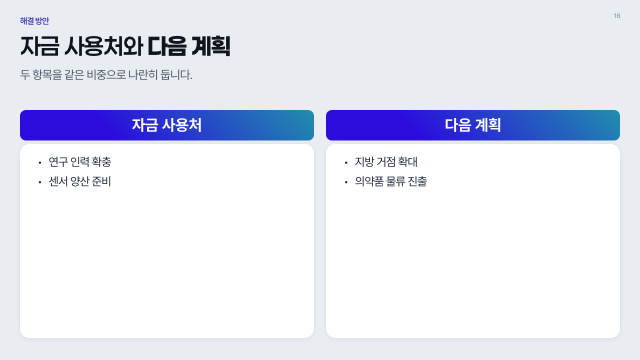
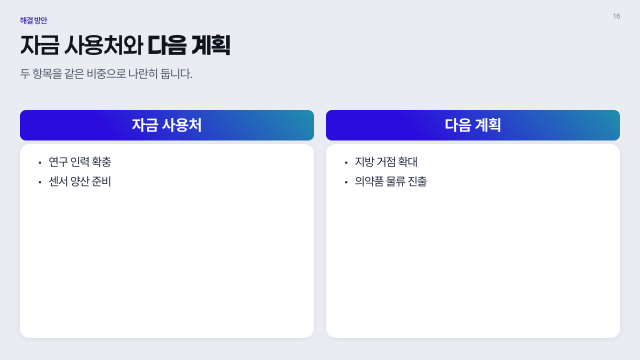
글자 크기를 7단계 토큰으로 묶음: 라벨 14·캡션 12 추가, 파생 배율(×0.85~1.15) 전부 제거
- density 에 label·caption 추가(디자인 페이지에서 편집), 아이브로우 16(작은 글), 장 번호 14(라벨), 출처 14(라벨)
- 그래프·간트·연혁·조직도·배너·배지·강조 박스가 토큰만 쓰도록(HTML·PPTX)

Changed region(s): [[0.0312, 0.0306, 0.375, 0.1528], [0.0312, 0.1833, 0.3125, 0.2444]]

diff --git a/docs/templates/deck.html b/docs/templates/deck.html
@@ -28,7 +28,7 @@ deck-stage:not(:defined){visibility:hidden;}
   --fs-body:calc(18px * var(--k));--fs-small:calc(16px * var(--k));
   --fs-card:calc(24px * var(--k));--fs-stat:calc(34px * var(--k));
   --fs-table:calc(22px * var(--k));--fs-tableh:calc(22px * var(--k));
-  --fs-caption:calc(var(--fs-small) - 4px);   /* 캡션·단위: 작은 글보다 4px 작게, 색은 --text-light (2026-10-11 고정) */
+  --fs-label:calc(14px * var(--k));--fs-caption:calc(12px * var(--k));   /* 라벨 14 · 캡션 12 (2026-10-11 글자 크기 7단계로 묶음) */
   --gap:calc(12px * var(--k));
 }
 *,*::before,*::after{box-sizing:border-box;margin:0;padding:0;}
@@ -38,9 +38,9 @@ body{font-family:var(--font);-webkit-font-smoothing:antialiased;color:var(--text
 .slide{width:1280px;height:720px;overflow:hidden;background:var(--page);position:relative;font-size:var(--fs-body);line-height:1.5;letter-spacing:-.8pt;word-break:keep-all;font-family:var(--font);color:var(--text);}   /* deck-stage 가 슬롯에 흰 글자·시스템 글꼴을 깔아서, 색·글꼴을 명시하지 않은 글자가 사라지지 않게 */
 /* top: eyebrow + page no · headline · rule · meta line (minimal, no header strip) */
 .top{position:absolute;top:30px;left:var(--pad);right:var(--pad);z-index:4;}
-.eyebrow{font-size:17px;color:var(--primary-deep);font-weight:500;display:flex;justify-content:space-between;align-items:baseline;}
+.eyebrow{font-size:16px;color:var(--primary-deep);font-weight:500;display:flex;justify-content:space-between;align-items:baseline;}
 .eyebrow b{color:var(--primary);font-weight:700;}
-.eyebrow .pgno{position:absolute;top:-8px;right:0;font-size:13px;color:var(--text-light);font-weight:500;font-variant-numeric:tabular-nums;}   /* 몇 번째 장인지 — 오른쪽 위 모서리에 따로 띄운다 */
+.eyebrow .pgno{position:absolute;top:-8px;right:0;font-size:14px;color:var(--text-light);font-weight:500;font-variant-numeric:tabular-nums;}   /* 몇 번째 장인지 — 오른쪽 위 모서리에 따로 띄운다 */
 .stitle{font-family:var(--font-title);font-size:46px;font-weight:400;color:var(--title);line-height:1.2;margin-top:9px;word-break:keep-all;overflow-wrap:break-word;max-width:1100px;}
 .stitle b{font-family:var(--font-title-b);font-weight:400;color:var(--title);}
 .rule{display:none;}   /* 2026-10-09 헤드라인·리드 사이 구분선 없앰 */
@@ -66,7 +66,7 @@ body{font-family:var(--font);-webkit-font-smoothing:antialiased;color:var(--text
 .card.dark .cd{color:rgba(255,255,255,.85);}
 .card .fill{flex:1;min-height:0;display:flex;flex-direction:column;justify-content:flex-start;gap:12px;}   /* 위에서부터 채움, 덩어리 사이 12px */
 /* sub heading inside card: "| 채널 전체" */
-.sh2{font-size:calc(var(--fs-body) * .94);font-weight:700;color:var(--body);line-height:1.3;margin-bottom:.5em;}
+.sh2{font-size:var(--fs-small);font-weight:700;color:var(--body);line-height:1.3;margin-bottom:.5em;}
 /* list */
 ul.rl{list-style:none;padding:0;margin:0;display:flex;flex-direction:column;gap:var(--rl-gap,.5em);}
 ul.rl li{position:relative;padding-left:1.05em;color:var(--text);font-size:var(--fs-body);line-height:1.25;}
@@ -106,19 +106,19 @@ table.rt{width:100%;border-collapse:collapse;font-size:calc(var(--fs-table) * va
 .rt.kvt td{padding:.55em .3em;}
 .rt.kvt td:first-child{color:var(--text-mid);font-weight:500;}
 .rt.kvt td:last-child{text-align:right;font-weight:600;color:var(--text);font-variant-numeric:tabular-nums;}
-.badge{display:inline-flex;align-items:center;gap:.35em;height:1.9em;padding:0 .8em;border-radius:1em;font-size:.8em;font-weight:600;white-space:nowrap;}
+.badge{display:inline-flex;align-items:center;gap:.35em;height:1.9em;padding:0 .8em;border-radius:1em;font-size:calc(var(--fs-body) * var(--kt, 1));font-weight:600;white-space:nowrap;}
 .badge::before{content:'';width:.4em;height:.4em;border-radius:50%;background:currentColor;}
 .badge.ok{background:var(--primary-softer);color:var(--primary);} .badge.up{background:#DDEEFF;color:var(--primary-2);} .badge.wip{background:#FFF6E1;color:var(--warning);}   /* .prog 는 표지 진행 줄이 쓰는 이름이라 겹치지 않게 wip */ .badge.n{background:var(--bg-soft);color:var(--text-mid);}
 /* highlight box (used by kv/stat pairs) */
 .hbox{background:var(--primary-softer);border-radius:10px;display:flex;flex-direction:column;align-items:center;justify-content:center;padding:.8em 1em;text-align:center;}
-.hbox .hl{font-size:var(--fs-small);color:var(--text);} .hbox .hv{font-size:calc(var(--fs-stat) * .62);font-weight:800;color:var(--text);letter-spacing:-.03em;line-height:1.1;}
+.hbox .hl{font-size:var(--fs-small);color:var(--text);} .hbox .hv{font-size:var(--fs-card);font-weight:800;color:var(--text);letter-spacing:-.03em;line-height:1.1;}
 /* banner (callout): 연하늘 바탕 + 연하늘 테두리 둥근 박스 — 왼쪽에 라벨(포인트 컬러), 오른쪽에 본문. 모두 박스 안에 들어간다 */
 /* 출처·각주: 본문 아래 비워 둔 자리에 깐다. 줄이 늘면 본문이 그만큼 위로 올라간다. */
 .foot{position:absolute;left:var(--pad);right:var(--pad);bottom:13px;z-index:3;
-  font-size:14.67px;line-height:20.53px;letter-spacing:-0.2pt;color:var(--text-light);}
+  font-size:14px;line-height:20.53px;letter-spacing:-0.2pt;color:var(--text-light);}
 .foot>div{overflow:hidden;text-overflow:ellipsis;white-space:nowrap;}
 .banner{background:var(--banner);border:1.5px solid var(--banner-border);color:var(--text);padding:.75em 1.6em;border-radius:14px;display:flex;align-items:baseline;gap:1.6em;flex-shrink:0;font-size:var(--fs-small);}
-.banner .lead{color:var(--banner-label);font-size:calc(var(--fs-small) * 1.05);font-weight:700;white-space:nowrap;line-height:1.3;flex:0 0 auto;text-align:center;}
+.banner .lead{color:var(--banner-label);font-size:var(--fs-small);font-weight:700;white-space:nowrap;line-height:1.3;flex:0 0 auto;text-align:center;}
 .banner .msg{font-size:var(--fs-small);font-weight:500;line-height:1.3;flex:1;min-width:0;}
 .banner .msg ul.rl li{color:var(--banner-text);font-size:var(--fs-small);} .banner .msg ul.rl li::before{color:var(--banner-text);} .banner .msg b{color:var(--primary);font-weight:800;} .banner .msg ul.rl li .v{color:var(--text-mid);}
 .banner.light{background:#fff;border-color:transparent;color:var(--text);box-shadow:var(--card-shadow);} .banner.light .lead{color:var(--primary);} .banner.light .msg ul.rl li{color:var(--body);} .banner.light .msg ul.rl li::before{color:var(--body);} .banner.light .msg b{color:var(--primary);}
@@ -173,59 +173,59 @@ table.rt{width:100%;border-collapse:collapse;font-size:calc(var(--fs-table) * va
 /* org(조직도·인력 배치, 2026-10-09) — 위 대표 카드(진한 머리띠 "CEO" · 이름 줄 · 사진 빈 칸 + 이력 두 열) → 연결선 → 팀 카드 2~5개(연한 머리띠 "팀 (인원)" · 팀장 이름 + 역할 배지 · 이력 한 줄) */
 .org{display:flex;flex-direction:column;flex:1;min-height:0;font-size:var(--fs-small);align-items:center;}
 .org .ohead{width:46%;background:#fff;border:1.5px solid var(--primary-deep);border-radius:10px;overflow:hidden;box-shadow:var(--card-shadow);flex:0 0 auto;}
-.org .ohead .orole{background:var(--primary-deep);color:#fff;text-align:center;font-weight:700;font-size:1.15em;padding:.4em;}
-.org .ohead .oname{text-align:center;font-weight:600;font-size:1.1em;padding:.35em;border-bottom:1px solid var(--border);letter-spacing:.2em;}
+.org .ohead .orole{background:var(--primary-deep);color:#fff;text-align:center;font-weight:700;font-size:var(--fs-body);padding:.4em;}
+.org .ohead .oname{text-align:center;font-weight:600;font-size:var(--fs-body);padding:.35em;border-bottom:1px solid var(--border);letter-spacing:.2em;}
 .org .ohead .obody{display:grid;grid-template-columns:5.2em 1fr;gap:1em;padding:.7em 1em .8em .9em;background:var(--bg-soft);}
 .org .ohead .ophoto{aspect-ratio:3/4;background:var(--border);border-radius:4px;}
 .org .ohead .otitle{color:var(--primary);font-weight:600;margin-bottom:.3em;}
-.org .ohead .oitems{display:grid;grid-template-columns:1fr 1fr;column-gap:1em;row-gap:.15em;color:var(--text-mid);font-size:.92em;line-height:1.4;}
+.org .ohead .oitems{display:grid;grid-template-columns:1fr 1fr;column-gap:1em;row-gap:.15em;color:var(--text-mid);font-size:var(--fs-label);line-height:1.4;}
 .org .ohead .oitems div::before{content:'• ';}
 .org .olines{position:relative;width:100%;height:28px;flex:0 0 auto;}
 .org .olines i{position:absolute;background:var(--border-strong);}
 .org .oteams{display:grid;grid-template-columns:repeat(var(--n),1fr);gap:1.2em;width:100%;flex:0 0 auto;align-items:start;}   /* 팀 카드는 내용 높이만큼 */
 .org .oteam{background:#fff;border:1px solid var(--pill-glow-border,var(--primary-softer));border-radius:10px;overflow:hidden;box-shadow:var(--card-shadow);display:flex;flex-direction:column;}
-.org .oteam .tname{background:var(--primary-softer);color:var(--primary);text-align:center;font-weight:600;font-size:1.05em;padding:.5em .6em;border-bottom:1px solid var(--border);}
+.org .oteam .tname{background:var(--primary-softer);color:var(--primary);text-align:center;font-weight:600;font-size:var(--fs-small);padding:.5em .6em;border-bottom:1px solid var(--border);}
 .org .oteam .tbody{padding:.9em .8em;text-align:center;}
-.org .oteam .tlead{font-weight:600;font-size:1.1em;letter-spacing:.15em;}
-.org .oteam .tbadge{display:inline-block;margin-left:.5em;background:var(--bg-soft);color:var(--text-mid);border-radius:1em;padding:.1em .7em;font-size:.72em;font-weight:500;letter-spacing:0;vertical-align:middle;}
-.org .oteam .tdesc{color:var(--text-mid);font-size:.88em;margin-top:.5em;line-height:1.35;}
+.org .oteam .tlead{font-weight:600;font-size:var(--fs-body);letter-spacing:.15em;}
+.org .oteam .tbadge{display:inline-block;margin-left:.5em;background:var(--bg-soft);color:var(--text-mid);border-radius:1em;padding:.1em .7em;font-size:var(--fs-caption);font-weight:500;letter-spacing:0;vertical-align:middle;}
+.org .oteam .tdesc{color:var(--text-mid);font-size:var(--fs-label);margin-top:.5em;line-height:1.35;}
 /* history(연혁, 2026-10-09) — layout columns(기본): 간트와 같은 진한 머리띠(기간 + 흰 원), 열마다 세로 점선 + 점 + 연도·내용
    layout list: 왼쪽 기간(포인트 컬러), 오른쪽 연·월·내용 줄. 글이 많은 제출용 */
 .hist{display:flex;flex-direction:column;flex:1;min-height:0;font-size:var(--fs-small);}
 .hist .hh{display:grid;grid-template-columns:repeat(var(--n),1fr);background:var(--primary-deep);color:#fff;border-radius:6px;margin:0 -8px 12px;padding:0 8px;flex:0 0 auto;}
-.hist .hh span{display:flex;align-items:center;gap:.6em;padding:.5em .6em .5em 0;font-weight:700;font-size:.95em;white-space:nowrap;overflow:hidden;text-overflow:ellipsis;}
+.hist .hh span{display:flex;align-items:center;gap:.6em;padding:.5em .6em .5em 0;font-weight:700;font-size:var(--fs-label);white-space:nowrap;overflow:hidden;text-overflow:ellipsis;}
 .hist .hh span::before{content:'';width:.7em;height:.7em;border-radius:50%;background:#fff;flex:0 0 auto;box-shadow:0 0 0 .22em var(--primary-deep),0 0 0 .32em rgba(255,255,255,.55);margin-left:.32em;}
 .hist .hcols{display:grid;grid-template-columns:repeat(var(--n),1fr);column-gap:1.2em;flex:1;min-height:0;}
 .hist .hcol{position:relative;padding-left:1.3em;}
 .hist .hcol::before{content:'';position:absolute;left:.3em;top:.6em;bottom:.6em;border-left:1px dashed var(--border-strong);}
 .hist .hi{position:relative;margin-bottom:12px;}
 .hist .hi::before{content:'';position:absolute;left:-1.3em;top:.4em;width:.65em;height:.65em;border-radius:50%;background:var(--primary);}
-.hist .hy{font-weight:700;color:var(--text);line-height:1.3;} .hist .hy small{font-weight:500;color:var(--text-mid);font-size:.9em;margin-left:.3em;}
-.hist .ht{color:var(--text-mid);line-height:1.35;font-size:.95em;}
+.hist .hy{font-weight:700;color:var(--text);line-height:1.3;} .hist .hy small{font-weight:500;color:var(--text-mid);font-size:var(--fs-label);margin-left:.3em;}
+.hist .ht{color:var(--text-mid);line-height:1.35;font-size:var(--fs-label);}
 .hist.list{gap:14px;}
 .hist.list .hg{display:grid;grid-template-columns:7.5em 1fr;column-gap:1.4em;}
 .hist.list .hp{font-weight:700;color:var(--primary);line-height:1.55;}
 .hist.list .hrow{display:grid;grid-template-columns:3.2em max-content 1fr;column-gap:.6em;line-height:1.55;}   /* 월 칸은 글자 너비만큼 — 내용이 바로 옆에서 시작 */
-.hist.list .hrow .hy{font-weight:600;} .hist.list .hrow .hm{color:var(--text-mid);} .hist.list .hrow .ht{color:var(--text);font-size:1em;margin-left:-4px;}   /* 월과 내용 사이: 칸 간격 .6em 에서 4px 뺌 */
+.hist.list .hrow .hy{font-weight:600;} .hist.list .hrow .hm{color:var(--text-mid);font-size:var(--fs-label);} .hist.list .hrow .ht{color:var(--text);font-size:var(--fs-small);margin-left:-4px;}   /* 월과 내용 사이: 칸 간격 .6em 에서 4px 뺌 */
 /* gantt(2026-10-09, 레퍼런스 "시간표" 모양) — 위에 진한 머리띠(열 라벨 흰 글자) · 왼쪽 항목 이름 · 이름 끝에서 막대까지 가는 안내선 ·
    막대는 두껍게, 라벨은 막대 안 흰 글자 · 막대 앞뒤에 시작·끝 표시(from·to). 세로 격자선·가로 구분선 없음 */
 .gantt{display:flex;flex-direction:column;flex:1;min-height:0;font-size:var(--fs-small);--gl:24%;}
 .gantt .gh,.gantt .gr{display:grid;grid-template-columns:var(--gl) 1fr;min-height:0;}
 .gantt .gh{flex:0 0 auto;background:var(--primary-deep);color:#fff;border-radius:6px;overflow:hidden;margin:0 -8px 8px;padding:0 8px;}   /* 띠는 내용보다 좌우 8px 넓게, 글자는 내용 끝선에 맞춤, 아래 행과 8px */ .gantt .gr{flex:1;}
-.gantt .gh .gnh{display:flex;align-items:center;padding:.45em .8em .45em 0;font-weight:700;font-size:.9em;}
-.gantt .gcols{display:grid;grid-template-columns:repeat(var(--n),1fr);text-align:left;color:#fff;font-weight:600;font-size:.9em;margin-right:var(--gto,3.4em);}
+.gantt .gh .gnh{display:flex;align-items:center;padding:.45em .8em .45em 0;font-weight:700;font-size:var(--fs-label);}
+.gantt .gcols{display:grid;grid-template-columns:repeat(var(--n),1fr);text-align:left;color:#fff;font-weight:600;font-size:var(--fs-label);margin-right:var(--gto,3.4em);}
 .gantt .gcols span{overflow:hidden;text-overflow:ellipsis;white-space:nowrap;padding:.45em .5em;border-left:1px solid rgba(255,255,255,.22);}
 .gantt .gname{display:flex;align-items:center;padding-right:.8em;color:var(--text);font-weight:600;overflow:hidden;text-overflow:ellipsis;white-space:nowrap;}
 .gantt .gtrack{position:relative;min-height:1.9em;margin-right:var(--gto,3.4em);}   /* 오른쪽은 to 라벨 자리 */
 .gantt .glead{position:absolute;left:0;top:50%;height:1px;background:var(--border-strong);}   /* 이름 끝 → 막대 시작 안내선 */
-.gantt .gbar{position:absolute;top:50%;height:1.45em;font-style:normal;transform:translateY(-50%);background:var(--primary);border-radius:3px;min-width:4px;display:flex;align-items:center;justify-content:center;color:#fff;font-weight:600;font-size:.85em;white-space:nowrap;overflow:hidden;padding:0 .4em;}
+.gantt .gbar{position:absolute;top:50%;height:1.45em;font-style:normal;transform:translateY(-50%);background:var(--primary);border-radius:3px;min-width:4px;display:flex;align-items:center;justify-content:center;color:#fff;font-weight:600;font-size:var(--fs-label);white-space:nowrap;overflow:hidden;padding:0 .4em;}
 .gantt .gbar.second{background:var(--primary-2);} .gantt .gbar.accent{background:var(--pill-glow);} .gantt .gbar.muted{background:var(--text-mid);}
-.gantt .gfrom,.gantt .gto{position:absolute;top:50%;transform:translateY(-50%);font-size:.85em;color:var(--text-mid);white-space:nowrap;}
+.gantt .gfrom,.gantt .gto{position:absolute;top:50%;transform:translateY(-50%);font-size:var(--fs-label);color:var(--text-mid);white-space:nowrap;}
 .gantt .gfrom{transform:translate(-100%,-50%);padding-right:.5em;} .gantt .gto{padding-left:.5em;} .gantt .gto.end{left:auto!important;right:calc(-1 * var(--gto,3.4em));text-align:right;padding-left:0;}
 /* chart — shadcn/ui Charts: 회색 패널 없이 카드 위에 바로. 제목 왼쪽·단위 오른쪽, 범례는 아래 가운데(작은 둥근 네모) */
 .chart{background:transparent;border-radius:0;padding:.2em 0 0;display:flex;flex-direction:column;flex:1;min-height:0;}
 .chart .chh{display:flex;justify-content:space-between;align-items:baseline;font-size:var(--fs-small);}
-.chart .chh b{color:var(--body);font-weight:700;font-size:calc(var(--fs-body) * .94);}   /* 그래프 제목 = 카드 안 소제목(.sh2)과 같은 글자 */
+.chart .chh b{color:var(--body);font-weight:700;font-size:var(--fs-small);}   /* 그래프 제목 = 카드 안 소제목(.sh2)과 같은 글자 */
 .chart .chh span{color:var(--text-light);font-size:var(--fs-caption);}   /* 단위 = 캡션 글자 */
 .chart .cplot{flex:1;min-height:0;margin-top:.5em;display:flex;} .chart .cplot svg{width:100%;height:100%;display:block;}
 .chart .lg{display:flex;justify-content:center;gap:1.4em;font-size:var(--fs-small);color:var(--body);font-weight:500;margin-top:.35em;}   /* 범례 = 작은 라벨 톤 */ .chart .lg i{display:inline-block;width:.6em;height:.6em;border-radius:2px;margin-right:.4em;vertical-align:0;}
@@ -518,17 +518,17 @@ table.rt{width:100%;border-collapse:collapse;font-size:calc(var(--fs-table) * va
       </div></div></div></div></div></div>
     
   </section>
-<section class="slide" data-label="4-5 SafeAI **연혁** (2025 – 2026)" id="s26" data-fit="1" style="--k: 0.9;" style="--k:0.9">
+<section class="slide" data-label="4-5 SafeAI **연혁** (2025 – 2026)" id="s26" data-fit="1" style="--k: 0.94;" style="--k:0.94">
     <div class="top"><div class="eyebrow"><span>성과</span><span class="pgno">26</span></div><div class="stitle">SafeAI <b>연혁</b> (2025 – 2026)</div><div class="rule"></div><div class="slead">기간별로 묶은 연혁입니다. 발표용 가로형입니다.</div></div>
     <div class="body" style="--body-top:220px;--safe-bottom:44px"><div class="blk" style="flex:1 1 0"><div class="inner"><div class="card grow"><div class="bd"><div class="hist" style="--n:2"><div class="hh"><span>2025.01</span><span>2026.01</span></div><div class="hcols"><div class="hcol"><div class="hi"><div class="hy">2025<small>1월</small></div><div class="ht"><b>룩셈부르크 법인 투자유치(규모 : 50,000&nbsp;€)</b></div></div><div class="hi"><div class="hy">2025<small>4월</small></div><div class="ht">KISA 2025년 AI 보안 유망기업 육성 지원사업&nbsp;선정</div></div><div class="hi"><div class="hy">2025<small>6월</small></div><div class="ht">조달청 공공혁신수요 기반 혁신제품 기술개발 R&amp;D&nbsp;선정</div></div><div class="hi"><div class="hy">2025<small>6월</small></div><div class="ht">KIPOT 능동형 안전서비스 제공을 위한 이동형 플랫폼 기반 솔루션 개발 R&amp;D&nbsp;선정</div></div><div class="hi"><div class="hy">2025<small>7월</small></div><div class="ht"><b>㈜ 롯데쇼핑 롯데마트 결품탐지 솔루션 공급계약&nbsp;체결</b></div></div><div class="hi"><div class="hy">2025<small>8월</small></div><div class="ht">중기부 2025년 초격차 스타트업 1000+ Micro DIPS AX&nbsp;선정</div></div><div class="hi"><div class="hy">2025<small>9월</small></div><div class="ht">중기부 2025년 디지털기반 중소제조 산재예방 기술개발사업&nbsp;선정</div></div><div class="hi"><div class="hy">2025<small>12월</small></div><div class="ht">한국 S사 영상압축 SW라이센스 공급 계약&nbsp;체결</div></div></div><div class="hcol"><div class="hi"><div class="hy">2026<small>1월</small></div><div class="ht"><b>글로벌 톱티어 AI 학회 WACV 2026 '열화상 객체 탐지' 글로벌 챌린지&nbsp;1위</b></div></div><div class="hi"><div class="hy">2026<small>1월</small></div><div class="ht"><b>글로벌 톱티어 AI 학회 WACV 2026 'RetailAction 탐지' 글로벌 챌린지&nbsp;1위</b></div></div><div class="hi"><div class="hy">2026<small>2월</small></div><div class="ht">포커스에이아이 물리보안 AI 기술협력 MOU&nbsp;체결</div></div><div class="hi"><div class="hy">2026<small>4월</small></div><div class="ht">과기부 IITP-디지털 딥페이크 범죄대응핵심기술개발 R&amp;D&nbsp;선정</div></div><div class="hi"><div class="hy">2026<small>4월</small></div><div class="ht">중기부 2026년 글로벌 엑셀러레이팅(GMEP) 지원사업&nbsp;선정</div></div><div class="hi"><div class="hy">2026<small>4월</small></div><div class="ht">과기부 연구개발특구-전략기술 연구성과 사업화(일반형)&nbsp;선정</div></div></div></div></div></div></div></div></div></div>
     
   </section>
-<section class="slide" data-label="4-6 SafeAI **연혁** (2023 – 2024)" id="s27" data-fit="1" style="--k: 1.13;" style="--k:1.12">
+<section class="slide" data-label="4-6 SafeAI **연혁** (2023 – 2024)" id="s27" data-fit="1" style="--k: 1.26;" style="--k:1.26">
     <div class="top"><div class="eyebrow"><span>성과</span><span class="pgno">27</span></div><div class="stitle">SafeAI <b>연혁</b> (2023 – 2024)</div><div class="rule"></div><div class="slead">글로 읽는 제출용 세로형입니다. 항목이 많은 해는 이 모양이 맞습니다.</div></div>
     <div class="body" style="--body-top:220px;--safe-bottom:44px"><div class="blk" style="flex:1 1 0"><div class="inner"><div class="card grow"><div class="bd"><div class="hist list"><div class="hg"><div class="hp">2023.08</div><div><div class="hrow"><span class="hy">2023</span><span class="hm">8월</span><span class="ht"><b>법인설립</b></span></div><div class="hrow"><span class="hy">2023</span><span class="hm">10월</span><span class="ht"><b>룩셈부르크 FIT4스타트업 14th&nbsp;선정</b></span></div><div class="hrow"><span class="hy">2023</span><span class="hm">11월</span><span class="ht">KIPoT 과학치안진흥센터 미래치안도전기술개발 과제 선정(딥페이크,딥보이스,가짜뉴스)</span></div></div></div><div class="hg"><div class="hp">2024.01</div><div><div class="hrow"><span class="hy">2024</span><span class="hm">1월</span><span class="ht">한국N사 AICCTV 솔루션 계약체결</span></div><div class="hrow"><span class="hy">2024</span><span class="hm">2월</span><span class="ht"><b>SEED투자 유치 넥스트웨이브벤처파트너스 (30억기업가치 2억투자유치)</b></span></div><div class="hrow"><span class="hy">2024</span><span class="hm">3월</span><span class="ht">룩셈부르크 경찰청 NDA 체결 및 POC</span></div><div class="hrow"><span class="hy">2024</span><span class="hm">3월</span><span class="ht">아이슬란드 Videntifier NDA 체결 및 POC</span></div><div class="hrow"><span class="hy">2024</span><span class="hm">4월</span><span class="ht"><b>글로벌 칩페이크 탐지 챌린지 (ACM ICMR 2024)&nbsp;1위</b></span></div><div class="hrow"><span class="hy">2024</span><span class="hm">4월</span><span class="ht">IITP ETRI주관 송파구 마약던지기 행동 감지 R&amp;D선정</span></div><div class="hrow"><span class="hy">2024</span><span class="hm">5월</span><span class="ht">한국 D사 wifi, Bluetooth 신호활용 군중밀집 관리 기술 계약&nbsp;체결</span></div><div class="hrow"><span class="hy">2024</span><span class="hm">10월</span><span class="ht"><b>룩셈부르크 법인설립</b></span></div><div class="hrow"><span class="hy">2024</span><span class="hm">11월</span><span class="ht">2024 Smart City Expo World Congress Barcelona 부스&nbsp;운영</span></div><div class="hrow"><span class="hy">2024</span><span class="hm">11월</span><span class="ht"><b>(주)롯데쇼핑 롯데마트 이상탐지 솔루션 공급 계약&nbsp;체결</b></span></div><div class="hrow"><span class="hy">2024</span><span class="hm">11월</span><span class="ht">한국 A사 이상징후 판독 S/W 플랫폼 개발 계약&nbsp;체결</span></div><div class="hrow"><span class="hy">2024</span><span class="hm">11월</span><span class="ht">한국 A사 AI 합성데이터 공급 계약&nbsp;체결</span></div></div></div></div></div></div></div></div></div>
     
   </section>
-<section class="slide" data-label="4-7 영상 AI 분야 **전문 인력 배치**" id="s28" data-fit="1" style="--k: 1.04;" style="--k:1.04">
+<section class="slide" data-label="4-7 영상 AI 분야 **전문 인력 배치**" id="s28" data-fit="1" style="--k: 1.06;" style="--k:1.06">
     <div class="top"><div class="eyebrow"><span>성과</span><span class="pgno">28</span></div><div class="stitle">영상 AI 분야 <b>전문 인력&nbsp;배치</b></div><div class="rule"></div><div class="slead">대표와 팀장 중심의 조직 구성입니다.</div></div>
     <div class="body" style="--body-top:220px;--safe-bottom:44px"><div class="blk" style="flex:1 1 0"><div class="inner"><div class="card grow plain"><div class="bd"><div class="org" style="--n:4">
       <div class="ohead"><div class="orole">CEO</div><div class="oname">이원섭</div>
@@ -580,7 +580,8 @@ table.rt{width:100%;border-collapse:collapse;font-size:calc(var(--fs-table) * va
   };
   var out = '<svg viewBox="0 0 ' + W + ' ' + H + '" preserveAspectRatio="xMidYMid meet" xmlns="http://www.w3.org/2000/svg" font-family="inherit">';
   for (var g = 0; g <= 4; g++) { var gy = (padT + (H - padT - padB) * g / 4).toFixed(1); out += '<line x1="' + padL + '" y1="' + gy + '" x2="' + (W - padR) + '" y2="' + gy + '" stroke="' + C.border + '" stroke-opacity=".6" stroke-width="1"/>'; }
-  labels.forEach(function(l, i) { out += '<text x="' + lx(i) + '" y="' + (H - padB + fs * 1.7) + '" text-anchor="middle" font-size="' + (fs * 0.9) + '" font-weight="500" fill="' + C.body + '">' + esc(l) + '</text>'; });   // 축 라벨 = 작은 라벨(.stat .sl)
+  var fl = fs * (C.labelRatio || 0.875);   // 축 라벨 = 라벨 토큰(14/16)
+  labels.forEach(function(l, i) { out += '<text x="' + lx(i) + '" y="' + (H - padB + fs * 1.7) + '" text-anchor="middle" font-size="' + fl + '" font-weight="500" fill="' + C.body + '">' + esc(l) + '</text>'; });   // 축 라벨 = 작은 라벨(.stat .sl)
   if (b.kind === 'bar') {
     var bw = Math.min(fs * 5, gw * 0.72 / series.length), r = series.length > 1 ? fs * 0.3 : fs * 0.5;
     series.forEach(function(sr, si) { (sr.values || []).forEach(function(v, i) {
@@ -598,7 +599,7 @@ table.rt{width:100%;border-collapse:collapse;font-size:calc(var(--fs-table) * va
   }
   return out + '</svg>';
 };
-  var C = {"series":["#5D48FF","#2B0CDD","#00A89D","#C8A24B"],"border":"#D9DEE6","textMid":"#4A5568","body":"#515B75","text":"#1A2438"};
+  var C = {"series":["#5D48FF","#2B0CDD","#00A89D","#C8A24B"],"border":"#D9DEE6","textMid":"#4A5568","body":"#515B75","text":"#1A2438","labelRatio":0.875};
   function redraw() {
     document.querySelectorAll('.chart[data-chart]').forEach(function (el) {
       var plot = el.querySelector('.cplot'); if (!plot) return;

diff --git a/docs/design/index.html b/docs/design/index.html
@@ -276,7 +276,7 @@ tr.dirty .val input{border-color:var(--acc);color:var(--acc)}
 .d-label{display:inline-flex;align-items:center;height:2.1em;padding:0 1.05em;background:var(--p);color:#fff;
   font-size:calc(var(--fs-card)*var(--k));font-weight:700;border-radius:var(--r-label);line-height:1}
 .d-badge{display:inline-flex;align-items:center;gap:.35em;height:1.9em;padding:0 .8em;border-radius:1em;
-  font-size:calc(var(--fs-table)*var(--k)*.8);font-weight:600;white-space:nowrap}
+  font-size:calc(var(--fs-body)*var(--k));font-weight:600;white-space:nowrap}
 .d-badge::before{content:'';width:.4em;height:.4em;border-radius:50%;background:currentColor}
 .b-ok{background:var(--p-softer);color:var(--p)}.b-up{background:#DDEEFF;color:var(--p2)}
 .b-prog{background:#FFF6E1;color:#C97A1F}.b-n{background:#F5F7FA;color:#4A5568}
@@ -562,14 +562,14 @@ function derive(primary,secondary){
 
 /* ── state ── */
 var DENSITY={
-  dense:{body:18,small:16,cardTitle:24,stat:34,table:22,tableH:22,gap:12},
-  airy: {body:18,small:16,cardTitle:24,stat:34,table:22,tableH:22,gap:12}
+  dense:{body:18,small:16,cardTitle:24,stat:34,table:22,tableH:22,label:14,caption:12,gap:12},
+  airy: {body:18,small:16,cardTitle:24,stat:34,table:22,tableH:22,label:14,caption:12,gap:12}
 };
 var DEFAULTS={
   density:'dense', k:1,
   primary:'#2B0CDD', secondary:'#5D48FF',
   h0:48,h0l:58.6,h0s:-1, h1:40,h1l:48,h1s:-1, h2:22,h2l:31.8,h2s:-0.2, b2:18,b2l:26.6,b2s:-0.8,
-  eyebrow:17, stitle:46, lead:24, pgno:13,
+  eyebrow:16, stitle:46, lead:24, pgno:14,
   pad:40, safeBottom:44, bodyTop:220,
   rCard:19, rBanner:14, rLabel:8, rPill:12,
   shY:2, shBlur:12, shOp:7,
@@ -610,7 +610,7 @@ function apply(){
   set('--r-pill',S.rPill+'px');
   set('--card-shadow','0 '+S.shY+'px '+S.shBlur+'px rgba(20,40,80,'+(S.shOp/100).toFixed(3)+')');
   set('--fs-body',d.body+'px'); set('--fs-small',d.small+'px'); set('--fs-card',d.cardTitle+'px');
-  set('--fs-stat',d.stat+'px'); set('--fs-table',d.table+'px'); set('--fs-tableh',d.tableH+'px');
+  set('--fs-stat',d.stat+'px'); set('--fs-table',d.table+'px'); set('--fs-tableh',d.tableH+'px'); set('--fs-label',(d.label||14)+'px'); set('--fs-caption',(d.caption||12)+'px');
   set('--gap',d.gap+'px'); set('--k',S.k);
   $('#reset').disabled=!isDirty();
   paintSwatches(); paintDirty();
@@ -848,6 +848,12 @@ function buildBodyType(){
     {tok:'DENSITY.tableH', name:'표 헤더', sub:'연회색 바탕 · 회색 글자 · 강조 열만 메인 컬러',
       fields:[f('tableH',{step:0.5,min:6,max:32})],
       preview:pvBox(function(d){d.innerHTML='<table class="d-tbl"><tr><th>지표</th><th class="em">결과</th></tr></table>'})},
+    {tok:'DENSITY.label', name:'라벨', sub:'축 라벨 · 간트·연혁 머리띠 · 월 · 조직도 이력 · 장 번호 · 출처',
+      fields:[f('label',{step:0.5,min:6,max:32})],
+      preview:pvBox(function(d){d.innerHTML='<div style="font-size:calc(var(--fs-label)*var(--k));color:#515B75;font-weight:500">5월 · 6월 · 7월</div>'})},
+    {tok:'DENSITY.caption', name:'캡션', sub:'그림 캡션 · 그래프 단위 · 역할 배지 · --text-light',
+      fields:[f('caption',{step:0.5,min:6,max:32})],
+      preview:pvBox(function(d){d.innerHTML='<div style="font-size:calc(var(--fs-caption)*var(--k));color:#8B95A7">단위 : 만 회</div>'})},
     {tok:'DENSITY.gap', name:'칸 사이', sub:'카드 사이는 이 값 × 1.6',
       fields:[f('gap',{min:0,max:60,alt:function(v){return '· 카드 '+(v*1.6*S.k).toFixed(0)}})],
       preview:pvBox(function(d){d.innerHTML='<div style="display:flex;gap:calc(var(--gap)*var(--k));height:24px">'+

diff --git a/skills/ppt-maker/app/design-system.html b/skills/ppt-maker/app/design-system.html
@@ -276,7 +276,7 @@ tr.dirty .val input{border-color:var(--acc);color:var(--acc)}
 .d-label{display:inline-flex;align-items:center;height:2.1em;padding:0 1.05em;background:var(--p);color:#fff;
   font-size:calc(var(--fs-card)*var(--k));font-weight:700;border-radius:var(--r-label);line-height:1}
 .d-badge{display:inline-flex;align-items:center;gap:.35em;height:1.9em;padding:0 .8em;border-radius:1em;
-  font-size:calc(var(--fs-table)*var(--k)*.8);font-weight:600;white-space:nowrap}
+  font-size:calc(var(--fs-body)*var(--k));font-weight:600;white-space:nowrap}
 .d-badge::before{content:'';width:.4em;height:.4em;border-radius:50%;background:currentColor}
 .b-ok{background:var(--p-softer);color:var(--p)}.b-up{background:#DDEEFF;color:var(--p2)}
 .b-prog{background:#FFF6E1;color:#C97A1F}.b-n{background:#F5F7FA;color:#4A5568}
@@ -562,14 +562,14 @@ function derive(primary,secondary){
 
 /* ── state ── */
 var DENSITY={
-  dense:{body:18,small:16,cardTitle:24,stat:34,table:22,tableH:22,gap:12},
-  airy: {body:18,small:16,cardTitle:24,stat:34,table:22,tableH:22,gap:12}
+  dense:{body:18,small:16,cardTitle:24,stat:34,table:22,tableH:22,label:14,caption:12,gap:12},
+  airy: {body:18,small:16,cardTitle:24,stat:34,table:22,tableH:22,label:14,caption:12,gap:12}
 };
 var DEFAULTS={
   density:'dense', k:1,
   primary:'#2B0CDD', secondary:'#5D48FF',
   h0:48,h0l:58.6,h0s:-1, h1:40,h1l:48,h1s:-1, h2:22,h2l:31.8,h2s:-0.2, b2:18,b2l:26.6,b2s:-0.8,
-  eyebrow:17, stitle:46, lead:24, pgno:13,
+  eyebrow:16, stitle:46, lead:24, pgno:14,
   pad:40, safeBottom:44, bodyTop:220,
   rCard:19, rBanner:14, rLabel:8, rPill:12,
   shY:2, shBlur:12, shOp:7,
@@ -610,7 +610,7 @@ function apply(){
   set('--r-pill',S.rPill+'px');
   set('--card-shadow','0 '+S.shY+'px '+S.shBlur+'px rgba(20,40,80,'+(S.shOp/100).toFixed(3)+')');
   set('--fs-body',d.body+'px'); set('--fs-small',d.small+'px'); set('--fs-card',d.cardTitle+'px');
-  set('--fs-stat',d.stat+'px'); set('--fs-table',d.table+'px'); set('--fs-tableh',d.tableH+'px');
+  set('--fs-stat',d.stat+'px'); set('--fs-table',d.table+'px'); set('--fs-tableh',d.tableH+'px'); set('--fs-label',(d.label||14)+'px'); set('--fs-caption',(d.caption||12)+'px');
   set('--gap',d.gap+'px'); set('--k',S.k);
   $('#reset').disabled=!isDirty();
   paintSwatches(); paintDirty();
@@ -848,6 +848,12 @@ function buildBodyType(){
     {tok:'DENSITY.tableH', name:'표 헤더', sub:'연회색 바탕 · 회색 글자 · 강조 열만 메인 컬러',
       fields:[f('tableH',{step:0.5,min:6,max:32})],
       preview:pvBox(function(d){d.innerHTML='<table class="d-tbl"><tr><th>지표</th><th class="em">결과</th></tr></table>'})},
+    {tok:'DENSITY.label', name:'라벨', sub:'축 라벨 · 간트·연혁 머리띠 · 월 · 조직도 이력 · 장 번호 · 출처',
+      fields:[f('label',{step:0.5,min:6,max:32})],
+      preview:pvBox(function(d){d.innerHTML='<div style="font-size:calc(var(--fs-label)*var(--k));color:#515B75;font-weight:500">5월 · 6월 · 7월</div>'})},
+    {tok:'DENSITY.caption', name:'캡션', sub:'그림 캡션 · 그래프 단위 · 역할 배지 · --text-light',
+      fields:[f('caption',{step:0.5,min:6,max:32})],
+      preview:pvBox(function(d){d.innerHTML='<div style="font-size:calc(var(--fs-caption)*var(--k));color:#8B95A7">단위 : 만 회</div>'})},
     {tok:'DENSITY.gap', name:'칸 사이', sub:'카드 사이는 이 값 × 1.6',
       fields:[f('gap',{min:0,max:60,alt:function(v){return '· 카드 '+(v*1.6*S.k).toFixed(0)}})],
       preview:pvBox(function(d){d.innerHTML='<div style="display:flex;gap:calc(var(--gap)*var(--k));height:24px">'+

diff --git a/skills/ppt-maker/references/design-system.md b/skills/ppt-maker/references/design-system.md
@@ -11,9 +11,10 @@
 `scripts/build_html.mjs`(HTML)와 `scripts/build_pptx.mjs`(PPTX)가 구현한다. 예전 디자인은 `*_classic.mjs`(초기)와 스크래치 백업(연차보고서 헤더 바 스타일)에만 남아 있다.
 
 - **알약 제목**(2026-10-09): 모서리 12px(`shape.pill`), 바탕은 메인 컬러에 오른쪽 위에서 초록(`accent.glow` #19E68C 60%)이 내려오는 그라데이션(`linear-gradient(225deg)`, 70% 지점까지). PPTX 는 단색.
+- **글자 크기 7단계**(2026-10-11, 파생 배율을 없애고 묶음): 헤드라인 46 · 큰 수치 34 · 카드 제목 24(알약·비교 소제목·리드·강조 박스 값) · 본문 18(불릿·단계 번호·조직도 띠와 이름·표 배지) · 작은 글 16(보조줄·수치 라벨·배너·카드 소제목·그래프 제목·범례·값·간트 항목명·연혁 연도·조직도 직함·팀명·아이브로우) · 라벨 14(축 라벨·간트 머리띠와 막대 글자·연혁 머리띠와 월·조직도 이력·장 번호·출처) · 캡션 12(그림 캡션·그래프 단위·역할 배지, 색은 `--text-light`). 표는 전용 22. 값은 `design-tokens.json` density 의 body·small·cardTitle·stat·table·label·caption.
 - **컬러·글꼴 원본**(2026-10-09): 컬러는 `design-system/colors.json`(primary 800·700·600·400·300·200, 회색, 상태색), 글꼴은 `design-system/fonts.json`. 크기·여백·모서리는 `design-tokens.json`. 메인 = primary 600 `#2B0CDD`, 보조 = primary 400 `#5D48FF`. 메인이 스케일의 600 과 같으면 진한 단계(간지 그라데이션 등)는 스케일의 800·700 을 그대로 쓴다.
 - **팔레트**: 배경 연회색 `--page` #E9ECF0, 카드 흰색 + 그림자 `0 2px 12px rgba(20,40,80,.07)`, `--primary` 포인트 컬러(#2F0CC5 보라, 카드 상단 띠·강조), `--primary-2` 파랑(#1E5BB8, 보조 수치 문장·그래프 선), 연파랑 틴트(`--primary-softer`, 강조 박스·TO-BE 카드), 본문 #1A2438 / 보조 #4A5568. 이모지·그라디언트 텍스트·다중 그림자 금지. Pretendard, 자간 -0.015em~-0.03em(제목).
-- **본문 장표 골격**(1280×720, **좌우 여백 40px** — 사용자 원본 PPTX 기준): 아이브로우 17px(y=30, `--primary-deep` #2815B0 진보라(primary 800), **그 장표가 속한 목차(섹션) 이름 하나만**) · 장 번호(몇 번째 장인지, 13px `--text-light`)는 아이브로우 줄과 따로 **오른쪽 위 모서리**(y=22)에 → 헤드라인 **34.5pt(46px)** 검정 계열 `--title` #10141C(y=61, `**강조**` 는 같은 색 800 굵기) → lead 18pt(24px) 회색(헤드라인 바로 아래 12px, y≈124, 줄간격 150%. 구분선은 2026-10-09 없앰) → 본문(카드, 리드 1줄이면 y=220 부터) → 맨 아래 배너 → 출처·각주(있을 때만). 헤더 바 없음. 표지·간지·마무리는 그라디언트 배경.
+- **본문 장표 골격**(1280×720, **좌우 여백 40px** — 사용자 원본 PPTX 기준): 아이브로우 16px(y=30, `--primary-deep` #2815B0 진보라(primary 800), **그 장표가 속한 목차(섹션) 이름 하나만**) · 장 번호(몇 번째 장인지, 13px `--text-light`)는 아이브로우 줄과 따로 **오른쪽 위 모서리**(y=22)에 → 헤드라인 **34.5pt(46px)** 검정 계열 `--title` #10141C(y=61, `**강조**` 는 같은 색 800 굵기) → lead 18pt(24px) 회색(헤드라인 바로 아래 12px, y≈124, 줄간격 150%. 구분선은 2026-10-09 없앰) → 본문(카드, 리드 1줄이면 y=220 부터) → 맨 아래 배너 → 출처·각주(있을 때만). 헤더 바 없음. 표지·간지·마무리는 그라디언트 배경.
 - **글자 크기·간격(원본 PPTX 와 동일하게)**: 본문 불릿 17pt·진한 색(`--text`), 카드 안 소제목 16pt 굵게·연한 회색(`--body`), 알약 제목 18pt 굵게 흰색, 배너 라벨 15pt·본문 14pt. **자간은 전부 −0.8pt**(`letter-spacing:-.8pt` / `charSpacing:-0.8`). 불릿 줄높이 1.25, 항목 사이 간격은 0.4~0.9em 에서 자동.
 - **제목 규칙**(2026-09-14): 헤드라인은 **문장이 아니라 명사형으로 끝낸다** — "…세 기능으로 구성", "…24주 일정". "~한다/~합니다/~이다" 금지. 강조는 색이 아니라 굵기로만 준다.
 - **번호 표기**: 목차·간지는 로마숫자 대신 **1·2·3 숫자**(목차 번호 36px 800). `meta.numbering` 은 쓰지 않는다.

diff --git a/skills/ppt-maker/templates/components.md b/skills/ppt-maker/templates/components.md
@@ -9,12 +9,12 @@
 
 | 부품 | 쓰이는 곳 | 상태 | 정할 것 · 정한 것 |
 | --- | --- | --- | --- |
-| 아이브로우(섹션명) | 본문 전체 | 완료 | 17px, 진보라 `--primary-deep` #2815B0 (primary 800) |
-| 장 번호(몇 번째 장인지) | 본문 전체 | 완료 | 13px `--text-light`, 오른쪽 위 모서리 y=22 |
+| 아이브로우(섹션명) | 본문 전체 | 완료 | 16px(작은 글), 진보라 `--primary-deep` #2815B0 (primary 800) |
+| 장 번호(몇 번째 장인지) | 본문 전체 | 완료 | 14px(라벨) `--text-light`, 오른쪽 위 모서리 y=22 |
 | 헤드라인 | 본문 전체 | 완료 | 46px, 강조 구절 굵게. 두 줄이면 본문 시작을 내림 |
 | 구분선 | 본문 전체 | 삭제 | 2026-10-09 없앰. 리드가 헤드라인 바로 아래(12px) |
 | 리드(3번째 줄) | 본문 전체 | 완료 | 24px `--text-mid`, `~습니다` |
-| 출처·각주 | 수치·인용 장표 | 점검 | 맨 아래 작은 글씨. 크기·색·위치 |
+| 출처·각주 | 수치·인용 장표 | 완료 | 라벨 14px `--text-light`, 왼쪽 아래, 위 간격 12px |
 
 ## B. 카드 계열
 
